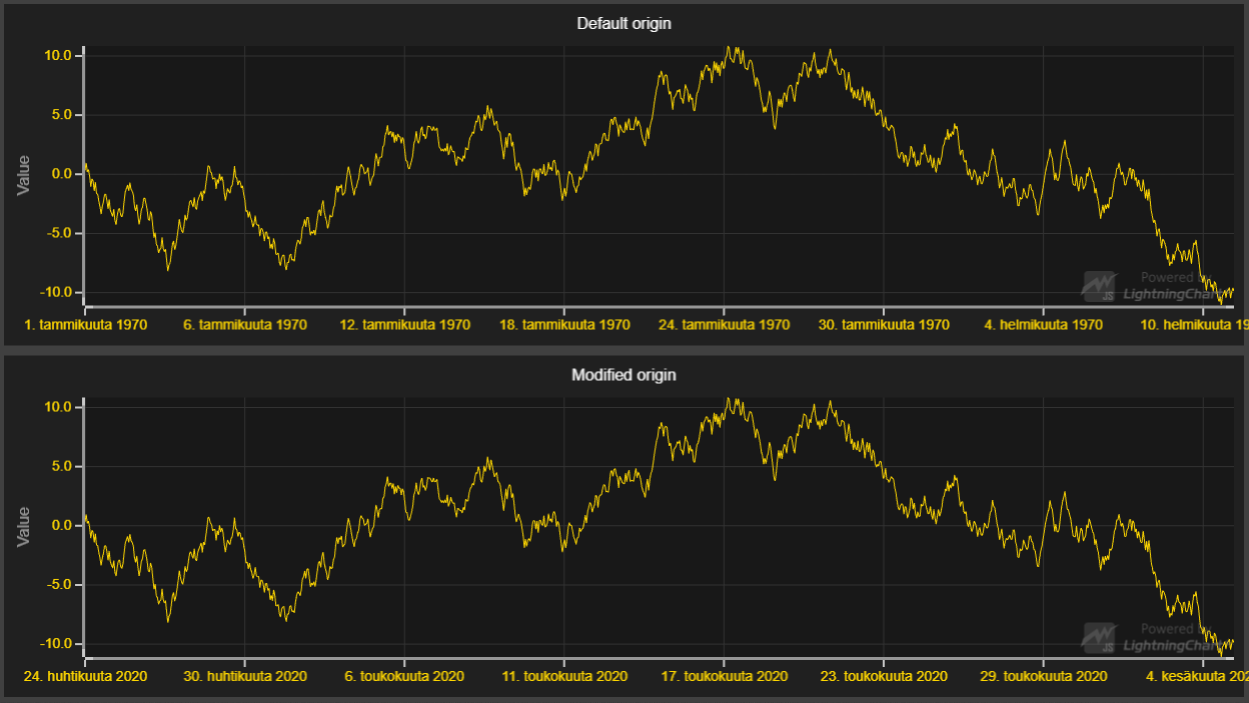
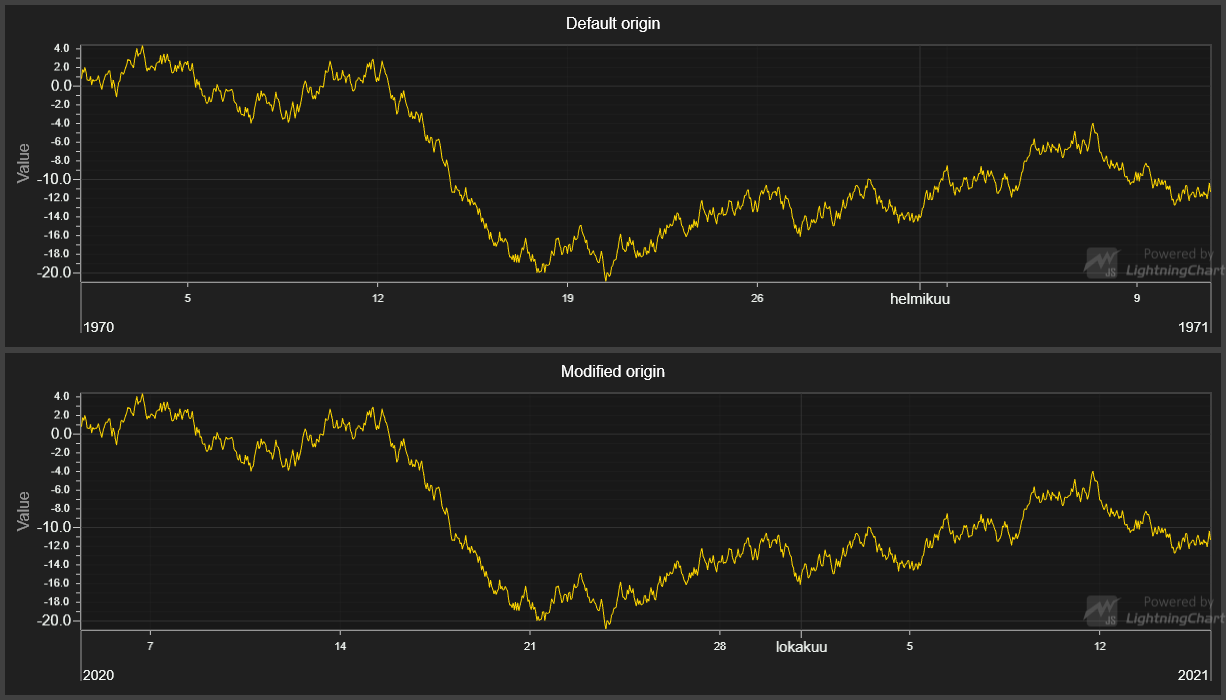
LCJS 2.0.0

diff --git a/src/index.js b/src/index.js
@@ -3,14 +3,15 @@
  */
 // Import LightningChartJS
 const lcjs = require('@arction/lcjs')
- 
+
 // Extract required parts from LightningChartJS.
 const {
     lightningChart,
     AxisTickStrategies,
-    DataPatterns
+    DataPatterns,
+    Themes
 } = lcjs
- 
+
 // Import data-generator from 'xydata'-library.
 const {
     createProgressiveTraceGenerator
@@ -18,6 +19,7 @@ const {
 
 // Create Dashboard.
 const db = lightningChart().Dashboard({
+    // theme: Themes.dark 
     numberOfRows: 2,
     numberOfColumns: 1
 })
@@ -26,27 +28,36 @@ const chartDefaultOrigin = db.createChartXY({
     columnIndex: 0,
     rowIndex: 0,
     columnSpan: 1,
-    rowSpan: 1,
-    // Use the DateTime Axis TickStrategy with the default origin.
-    chartXYOptions: { defaultAxisXTickStrategy: AxisTickStrategies.DateTime() },
+    rowSpan: 1
 })
 const chartModifiedOrigin = db.createChartXY({
     columnIndex: 0,
     rowIndex: 1,
     columnSpan: 1,
-    rowSpan: 1,
-    // Use the DateTime Axis TickStrategy with the origin set to current day.
-    chartXYOptions: { defaultAxisXTickStrategy: AxisTickStrategies.DateTime(new Date())}
+    rowSpan: 1
 })
+
+// Use the DateTime Axis TickStrategy with the default origin.
+chartDefaultOrigin
+    .getDefaultAxisX()
+    .setTickStrategy(AxisTickStrategies.DateTime)
+
+// Use the DateTime Axis TickStrategy with the origin set to current day.
+chartModifiedOrigin
+    .getDefaultAxisX()
+    .setTickStrategy(
+        AxisTickStrategies.DateTime,
+        (tickStrategy) => tickStrategy.setDateOrigin(new Date()
+        ))
 // Setup the charts. 
 chartDefaultOrigin
     .setTitle('Default origin')
     .getDefaultAxisY()
-        .setTitle('Value')
+    .setTitle('Value')
 chartModifiedOrigin
     .setTitle('Modified origin')
     .getDefaultAxisY()
-        .setTitle('Value')
+    .setTitle('Value')
 
 // Create progressive line series for both charts.
 // Using the DataPatterns object to select the horizontalProgressive pattern for the line series.
@@ -64,6 +75,5 @@ createProgressiveTraceGenerator()
     .then(data => {
         // Use same data on both Series for demonstration purposes.
         series1.add(data.map((point) => ({ x: point.x * dataFrequency, y: point.y })))
-        series2.add(data.map((point) => ({ x: point.x * dataFrequency, y: point.y })))    
-})
-    
+        series2.add(data.map((point) => ({ x: point.x * dataFrequency, y: point.y })))
+    })

diff --git a/README.md b/README.md
@@ -32,12 +32,14 @@ The *origin-date* can be specified to whichever DateTime is desired. It is done 
 const originDate = new Date(2002, 0, 1, 13)
 // Create DateTime AxisTickStrategy with specified originDate.
 const dateTimeTickStrategy = AxisTickStrategies.DateTime(originDate)
-// Use created DateTime AxisTickStrategy in the default X Axis of the chart
-const chart = lightningChart().ChartXY({
-    defaultAxisXTickStrategy: AxisTickStrategies.DateTime(dateTimeTickStrategy)
-})
-// Use created DateTime AxisTickStrategy in a new Y Axis
-const dateTimeAxis = chart.addAxisY( false, dateTimeTickStrategy )
+// Create a chart
+const chart = lightningChart().ChartXY({})
+// Get the default X Axis
+chart.getDefaultAxisX()
+    // Set the Tick Strategy to use
+    .setTickStrategy( AxisTickStrategies.DateTime,
+    // Use created DateTime AxisTickStrategy in the X Axis
+    (tickStrategy) => tickStrategy.setDateOrigin(dat1eTimeTickStrategy) )
 ```
 
 If this *TickStrategy* would be supplied to an *X-Axis*, it would effectively mean that its scale would start from 1st of January 2002 14PM, so a *XY-point* with coordinates `{ x: 0, y: 0 }` would be formated as `{ x: 1.1.2002 14:00, y: 0 }`.
@@ -47,11 +49,11 @@ It is worth mentioning that big *DateTime*-intervals can produce severe precisio
 
 ## API Links
 
-* XY cartesian chart: [ChartXY]
-* Scroll strategies: [AxisScrollStrategies]
-* Progressive line series: [ProgressiveLineSeries]
-* Data patterns: [DataPatterns]
-* Progressive trace data generator: [ProgressiveTraceGenerator]
+* [XY cartesian chart]
+* [Scroll strategies]
+* [Progressive line series]
+* [Data patterns]
+* [Progressive trace data generator]
 
 
 ## Support
@@ -75,9 +77,9 @@ Direct developer email support can be purchased through a [Support Plan][4] or b
 © Arction Ltd 2009-2020. All rights reserved.
 
 
-[ChartXY]: https://www.arction.com/lightningchart-js-api-documentation/v1.3.0/classes/chartxy.html
-[AxisScrollStrategies]: https://www.arction.com/lightningchart-js-api-documentation/v1.3.0/globals.html#axisscrollstrategies
-[ProgressiveLineSeries]: https://www.arction.com/lightningchart-js-api-documentation/v1.3.0/classes/progressivelineseries.html
-[DataPatterns]: https://www.arction.com/lightningchart-js-api-documentation/v1.3.0/globals.html#datapatterns
-[ProgressiveTraceGenerator]: https://arction.github.io/xydata/classes/progressivetracegenerator.html
+[XY cartesian chart]: https://www.arction.com/lightningchart-js-api-documentation/v2.0.0/classes/chartxy.html
+[Scroll strategies]: https://www.arction.com/lightningchart-js-api-documentation/v2.0.0/globals.html#axisscrollstrategies
+[Progressive line series]: https://www.arction.com/lightningchart-js-api-documentation/v2.0.0/classes/progressivelineseries.html
+[Data patterns]: https://www.arction.com/lightningchart-js-api-documentation/v2.0.0/globals.html#datapatterns
+[Progressive trace data generator]: https://arction.github.io/xydata/classes/progressivetracegenerator.html
 
